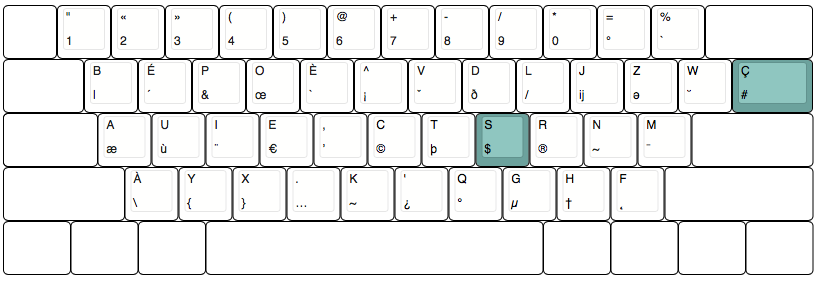
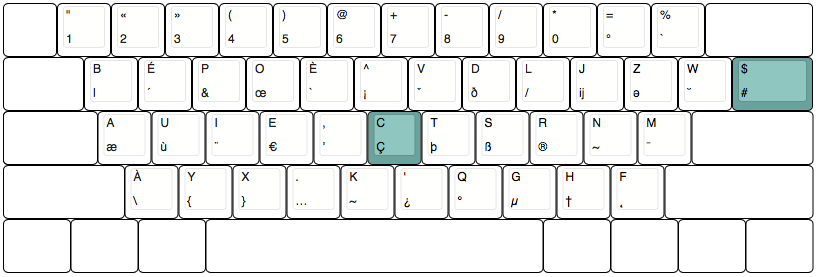
New layout

diff --git a/README.md b/README.md
@@ -4,9 +4,9 @@
 
 Les claviers américains (ANSI) disposent d'une touche de moins que les claviers Européens (ISO). Cela pose un problème avec la disposition BÉPO ou la touche manquante est la touche permettant d'écrire les symboles `$`et `#`.
 
-Cette disposition rend de nouveau accessible ces symboles via la couche `AltGR` respectivement sur les touches `S` et `Ç`.
+Cette disposition rend de nouveau accessible ces symboles en déplacant la touche manquante à la place de la touche `Ç`, et déplace le `ç` en `AltGR` + `c` et le `Ç` en `AltGR` + `C`.
 
-*Note: Cela implique le remplacements des symboles `ß` et `¸` inutiles pour la plupart des développeurs*.
+*Note: Cela implique la disparition du symbole `¸` inutile pour la plupart des développeurs*.
 
 ![layout simple](./simple/layout.png)
 
